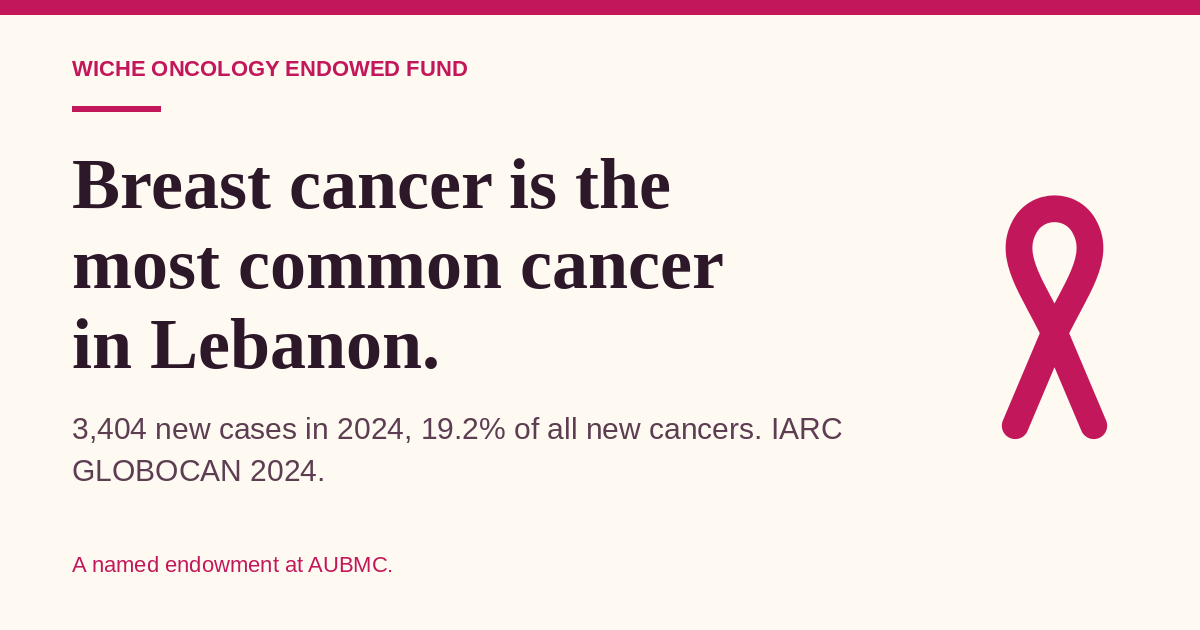
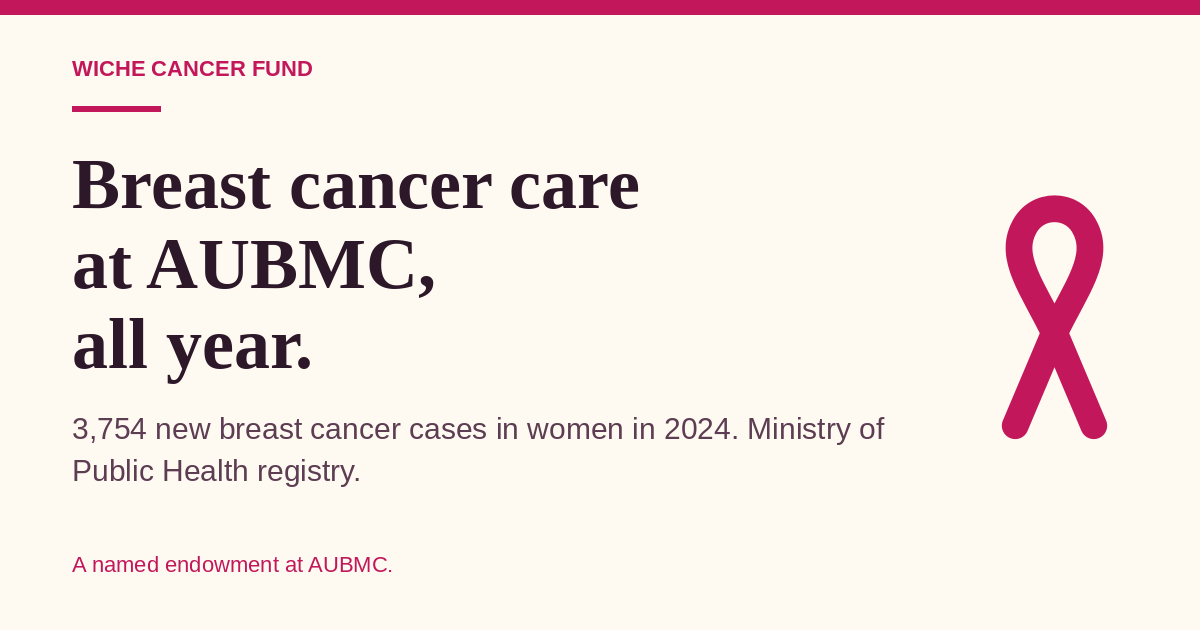
Sync origin fe1038b8, absolute OG tags

diff --git a/index.html b/index.html
@@ -3,22 +3,22 @@
   <head>
     <meta charset="utf-8" />
     <meta name="viewport" content="width=device-width, initial-scale=1, viewport-fit=cover" />
-    <title>WICHE Oncology Endowed Fund</title>
-    <meta name="description" content="Cancer care at AUBMC is priced in dollars. Since 2019 the Lebanese pound has lost 98 percent of its value. This endowment pays for treatment so a diagnosis is not the bill that stops care." />
+    <title>WICHE Cancer Fund</title>
+    <meta name="description" content="Breast cancer care at AUBMC, all year. In July 2026 the WICHE Cancer Fund helped three Lebanese women with breast cancer get treatment." />
     <meta name="theme-color" content="#441f41" />
     <link rel="icon" href="favicon.svg" type="image/svg+xml" />
     <link rel="apple-touch-icon" href="apple-touch-icon.png" />
     <meta property="og:type" content="website" />
     <meta property="og:url" content="https://rarmoush.github.io/wiche-fund/" />
-    <meta property="og:title" content="WICHE Oncology Endowed Fund" />
-    <meta property="og:description" content="Cancer care at AUBMC is priced in dollars. Since 2019 the Lebanese pound has lost 98 percent of its value. This endowment pays for treatment so a diagnosis is not the bill that stops care." />
+    <meta property="og:title" content="WICHE Cancer Fund" />
+    <meta property="og:description" content="Breast cancer care at AUBMC, all year. In July 2026 the fund helped three Lebanese women with breast cancer get treatment." />
     <meta property="og:image" content="https://rarmoush.github.io/wiche-fund/og-image.png" />
     <meta property="og:image:width" content="1200" />
     <meta property="og:image:height" content="630" />
-    <meta property="og:image:alt" content="A geometric pink ribbon: Breast cancer is the most common cancer in Lebanon. WICHE Oncology Endowed Fund. No photographs of people." />
+    <meta property="og:image:alt" content="A geometric pink ribbon: Breast cancer care at AUBMC, all year. WICHE Cancer Fund. No photographs of people." />
     <meta name="twitter:card" content="summary_large_image" />
-    <meta name="twitter:title" content="WICHE Oncology Endowed Fund" />
-    <meta name="twitter:description" content="Cancer care at AUBMC is priced in dollars. Since 2019 the Lebanese pound has lost 98 percent of its value. This endowment pays for treatment so a diagnosis is not the bill that stops care." />
+    <meta name="twitter:title" content="WICHE Cancer Fund" />
+    <meta name="twitter:description" content="Breast cancer care at AUBMC, all year. In July 2026 the fund helped three Lebanese women with breast cancer get treatment." />
     <meta name="twitter:image" content="https://rarmoush.github.io/wiche-fund/og-image.png" />
     <style>
       :root {
@@ -89,11 +89,11 @@
         letter-spacing: 0.08em; text-transform: uppercase; color: var(--plum);
       }
       h1 {
-        margin: 0; max-width: 16ch; font-family: var(--serif);
+        margin: 0; max-width: 14ch; font-family: var(--serif);
         font-size: clamp(2.35rem, 7vw, 4rem); font-weight: 500; line-height: 1.05; letter-spacing: -0.03em;
       }
-      h1 em { font-style: italic; font-weight: 500; }
-      .subhead { max-width: 36ch; margin: 1rem 0 0; font-size: 1.125rem; line-height: 1.4; }
+      .subhead { max-width: 28ch; margin: 0.85rem 0 0; font-size: 1.125rem; line-height: 1.4; }
+      .proof { max-width: 36ch; margin: 0.85rem 0 0; }
       .hero-actions { display: flex; flex-wrap: wrap; gap: 0.65rem; margin-top: 1.5rem; }
       main section { padding-block: 2.5rem; }
       main section + section { border-top: 1px solid var(--line); }
@@ -101,18 +101,23 @@
         margin: 0 0 0.55rem; font-family: var(--serif);
         font-size: clamp(1.7rem, 4vw, 2.25rem); font-weight: 500; line-height: 1.15;
       }
+      h3 {
+        margin: 1.5rem 0 0.75rem; font-family: var(--serif);
+        font-size: 1.35rem; font-weight: 500; line-height: 1.2;
+      }
       .lede { max-width: 62ch; margin: 0 0 1.25rem; }
       .stat-strip {
         display: grid; grid-template-columns: 1fr 1fr; gap: 1.15rem 0.9rem;
         list-style: none; margin: 0 0 1.5rem; padding: 0;
       }
       .stat-strip .num {
-        margin: 0; font-family: var(--serif); font-size: clamp(1.7rem, 4vw, 2.2rem);
+        margin: 0; font-family: var(--serif); font-size: clamp(2.5rem, 7vw, 3.25rem);
         font-weight: 500; line-height: 1; letter-spacing: -0.03em; color: var(--plum);
       }
       .stat-strip p:not(.num) { margin: 0.3rem 0 0.15rem; font-size: 0.875rem; line-height: 1.3; color: var(--muted); }
       .src { font-size: 0.75rem; }
-      .chart { margin: 0; }
+      .chart { margin: 1.35rem 0 0; }
+      p.src { max-width: 62ch; margin: 0.45rem 0 0; }
       .chart figcaption { margin: 0 0 0.7rem; font-weight: 650; }
       .chart ol { list-style: none; margin: 0; padding: 0; display: grid; gap: 0.65rem; }
       .bar-meta { display: flex; justify-content: space-between; gap: 1rem; margin-bottom: 0.2rem; font-size: 0.875rem; }
@@ -141,35 +146,9 @@
       .flow-steps .cite { display: inline-block; margin-top: 0.2rem; }
       .faq details { border-top: 1px solid var(--line); }
       .faq details:last-child { border-bottom: 1px solid var(--line); }
-      .segment { border: 0; margin: 0 0 0.9rem; padding: 0; }
-      .segment-bar { display: grid; grid-template-columns: 1fr 1fr; gap: 0.4rem; }
-      .segment-opt, .chip { position: relative; }
-      .segment-opt span, .chip span {
-        display: flex; align-items: center; justify-content: center; min-height: 48px;
-        border: 2px solid var(--line); font-weight: 650; cursor: pointer;
-      }
-      .segment-opt span { border-radius: 999px; }
-      .chip span { border-radius: 12px; background: var(--cream); }
-      .segment-opt input, .chip input { position: absolute; opacity: 0; pointer-events: none; }
-      .segment-opt input:checked + span, .chip input:checked + span {
-        background: var(--plum); border-color: var(--plum); color: var(--cream);
-      }
-      .segment-opt input:focus-visible + span, .chip input:focus-visible + span {
-        outline: 2px solid var(--plum); outline-offset: 3px;
-      }
-      .chip-label {
-        margin: 0 0 0.4rem; font-size: 0.75rem; font-weight: 700;
-        letter-spacing: 0.06em; text-transform: uppercase; color: var(--muted);
-      }
-      .chip-row { display: grid; grid-template-columns: repeat(3, 1fr); gap: 0.45rem; }
-      .chips { margin-bottom: 0.85rem; }
-      .other-wrap { margin-top: 0.7rem; }
-      .other-wrap label { display: block; margin-bottom: 0.25rem; font-size: 0.875rem; }
-      input[type="number"] {
-        width: 100%; min-height: 48px; padding: 0.45rem 0.7rem;
-        border: 2px solid var(--line); border-radius: 12px; background: var(--cream); color: var(--ink); font: inherit;
-      }
-      .give-hint { margin: 0.65rem 0 0; color: var(--muted); }
+      .give-actions { margin-top: 0; }
+      .give-hint { margin: 0.85rem 0 0; color: var(--muted); }
+      .dedicate { max-width: 42ch; margin: 0.85rem 0 0; }
       .share-primary { display: flex; flex-wrap: wrap; gap: 0.55rem; }
       .share-more {
         display: flex; flex-wrap: wrap; gap: 0.15rem 0.85rem;
@@ -195,7 +174,7 @@
       .hint { display: block; margin-top: 0.1rem; font-size: 0.8125rem; color: var(--muted); font-weight: 400; }
       .tax, .foot-note { max-width: 62ch; margin: 0.7rem 0 0; font-size: 0.9375rem; color: var(--muted); }
       @media (min-width: 700px) {
-        .stat-strip { grid-template-columns: repeat(4, 1fr); }
+        .stat-strip { grid-template-columns: repeat(3, 1fr); }
       }
       @media print {
         .skip, #share { display: none !important; }
@@ -220,12 +199,13 @@
           <svg class="ribbon" viewBox="0 0 100 140" aria-hidden="true" focusable="false">
             <use href="#ribbon-mark"></use>
           </svg>
-          <span>WICHE Oncology Endowed Fund</span>
+          <span>WICHE Cancer Fund</span>
         </p>
-        <h1>Cancer care at AUBMC is priced in <em>dollars</em>.</h1>
-        <p class="subhead">The pound has lost 98% of its value since 2019. This fund pays for treatment.</p>
+        <h1>So treatment can continue.</h1>
+        <p class="subhead">Breast cancer care at AUBMC, all year.</p>
+        <p class="proof">In July 2026 the fund helped three Lebanese women with breast cancer get treatment.</p>
         <div class="hero-actions">
-          <a class="btn btn-primary" href="https://giving.aub.edu.lb/" target="_blank" rel="noopener noreferrer">Give<span class="sr-only"> to AUB. Designation: WICHE Oncology Endowed Fund. Opens in a new tab.</span></a>
+          <a class="btn btn-primary" href="https://giving.aub.edu.lb/" target="_blank" rel="noopener noreferrer">Give<span class="sr-only">. Opens in a new tab.</span></a>
           <a class="btn btn-outline" href="#how">See where it goes</a>
         </div>
       </div>
@@ -234,65 +214,113 @@
     <main id="main">
       <section id="lebanon" class="wrap" aria-labelledby="lebanon-title">
         <!-- PENDING: diagnosis categories for the 9 non-breast-cancer patients not yet supplied by AUBMC. Do not infer. -->
-        <h2 id="lebanon-title">Cancer in Lebanon</h2>
-        <p class="lede">Breast cancer is the most common cancer here. These counts are from IARC, 2024.</p>
+        <!-- [NEED: source] National Cancer Registry breast-cancer counts for 2013, 2014, 2017, and 2020 were not read from the primary tables. Do not fill those years in. -->
+        <h2 id="lebanon-title">Breast cancer in Lebanon</h2>
         <ul class="stat-strip">
           <li>
-            <p class="num">3,404</p>
-            <p>New breast cancer cases</p>
-            <a class="src" href="https://gco.iarc.who.int/media/globocan/factsheets/populations/422-lebanon-fact-sheet.pdf" target="_blank" rel="noopener noreferrer">IARC<span class="sr-only"> GLOBOCAN 2024 fact sheet (PDF), opens in a new tab</span></a>
+            <p class="num">3,754</p>
+            <p>New breast cancer cases in 2024</p>
+            <a class="src" href="https://www.moph.gov.lb/userfiles/files/Esu_data/Esu_ncr/BF2024.HTM" target="_blank" rel="noopener noreferrer">Ministry of Public Health registry<span class="sr-only">, 2024 table of cases in women, opens in a new tab</span></a>
           </li>
           <li>
-            <p class="num">19.2%</p>
-            <p>Of all new cancers</p>
-            <a class="src" href="https://gco.iarc.who.int/media/globocan/factsheets/populations/422-lebanon-fact-sheet.pdf" target="_blank" rel="noopener noreferrer">IARC<span class="sr-only"> GLOBOCAN 2024 fact sheet (PDF), opens in a new tab</span></a>
+            <p class="num">2,252</p>
+            <p>Cases in women in 2012, the earlier count</p>
+            <a class="src" href="https://www.moph.gov.lb/userfiles/files/Esu_data/Esu_ncr/BF2012.HTM" target="_blank" rel="noopener noreferrer">Ministry of Public Health registry<span class="sr-only">, 2012 table of cases in women, opens in a new tab</span></a>
           </li>
           <li>
             <p class="num">38.7%</p>
             <p>Of new cancers in women</p>
-            <a class="src" href="https://gco.iarc.who.int/media/globocan/factsheets/populations/422-lebanon-fact-sheet.pdf" target="_blank" rel="noopener noreferrer">IARC<span class="sr-only"> GLOBOCAN 2024 fact sheet (PDF), opens in a new tab</span></a>
-          </li>
-          <li>
-            <p class="num">17,728</p>
-            <p>All new cancers</p>
-            <a class="src" href="https://gco.iarc.who.int/media/globocan/factsheets/populations/422-lebanon-fact-sheet.pdf" target="_blank" rel="noopener noreferrer">IARC<span class="sr-only"> GLOBOCAN 2024 fact sheet (PDF), opens in a new tab</span></a>
+            <a class="src" href="https://gco.iarc.who.int/media/globocan/factsheets/populations/422-lebanon-fact-sheet.pdf" target="_blank" rel="noopener noreferrer">IARC GLOBOCAN 2024<span class="sr-only"> fact sheet (PDF), opens in a new tab</span></a>
           </li>
         </ul>
         <figure class="chart">
-          <figcaption>Most common cancers, 2024</figcaption>
+          <figcaption>Cases in women, national registry</figcaption>
           <ol>
             <li>
-              <div class="bar-meta"><span>Breast</span><span>3,404 · 19.2%</span></div>
-              <div class="bar" role="img" aria-label="Breast, 3,404 cases"><span class="bar-fill is-breast" style="width:100%"></span></div>
+              <div class="bar-meta"><span>2012</span><span>2,252</span></div>
+              <div class="bar" role="img" aria-label="2012, 2,252 cases in women"><span class="bar-fill is-breast" style="width:59.8%"></span></div>
             </li>
             <li>
-              <div class="bar-meta"><span>Lung</span><span>1,820 · 10.3%</span></div>
-              <div class="bar" role="img" aria-label="Lung, 1,820 cases"><span class="bar-fill" style="width:53.47%"></span></div>
+              <div class="bar-meta"><span>2015</span><span>2,547</span></div>
+              <div class="bar" role="img" aria-label="2015, 2,547 cases in women"><span class="bar-fill is-breast" style="width:67.6%"></span></div>
             </li>
             <li>
-              <div class="bar-meta"><span>Bladder</span><span>1,680 · 9.5%</span></div>
-              <div class="bar" role="img" aria-label="Bladder, 1,680 cases"><span class="bar-fill" style="width:49.35%"></span></div>
+              <div class="bar-meta"><span>2016</span><span>2,264</span></div>
+              <div class="bar" role="img" aria-label="2016, 2,264 cases in women"><span class="bar-fill is-breast" style="width:60.1%"></span></div>
             </li>
             <li>
-              <div class="bar-meta"><span>Colorectum</span><span>1,644 · 9.3%</span></div>
-              <div class="bar" role="img" aria-label="Colorectum, 1,644 cases"><span class="bar-fill" style="width:48.3%"></span></div>
+              <div class="bar-meta"><span>2018</span><span>3,009</span></div>
+              <div class="bar" role="img" aria-label="2018, 3,009 cases in women"><span class="bar-fill is-breast" style="width:79.9%"></span></div>
             </li>
             <li>
-              <div class="bar-meta"><span>Prostate</span><span>1,411 · 8.0%</span></div>
-              <div class="bar" role="img" aria-label="Prostate, 1,411 cases"><span class="bar-fill" style="width:41.45%"></span></div>
+              <div class="bar-meta"><span>2019</span><span>2,991</span></div>
+              <div class="bar" role="img" aria-label="2019, 2,991 cases in women"><span class="bar-fill is-breast" style="width:79.4%"></span></div>
+            </li>
+            <li>
+              <div class="bar-meta"><span>2021</span><span>3,072</span></div>
+              <div class="bar" role="img" aria-label="2021, 3,072 cases in women"><span class="bar-fill is-breast" style="width:81.6%"></span></div>
+            </li>
+            <li>
+              <div class="bar-meta"><span>2022</span><span>3,230</span></div>
+              <div class="bar" role="img" aria-label="2022, 3,230 cases in women"><span class="bar-fill is-breast" style="width:85.7%"></span></div>
+            </li>
+            <li>
+              <div class="bar-meta"><span>2023</span><span>3,767</span></div>
+              <div class="bar" role="img" aria-label="2023, 3,767 cases in women"><span class="bar-fill is-breast" style="width:100%"></span></div>
+            </li>
+            <li>
+              <div class="bar-meta"><span>2024</span><span>3,754</span></div>
+              <div class="bar" role="img" aria-label="2024, 3,754 cases in women"><span class="bar-fill is-breast" style="width:99.7%"></span></div>
             </li>
           </ol>
         </figure>
+        <p class="src">Ministry of Public Health, National Cancer Registry. Cases in women, breast (C50), 2012 to 2024. 2015 is the breast-cancer table; other years are Table B.
+          <a href="https://www.moph.gov.lb/userfiles/files/Esu_data/Esu_ncr/BF2012.HTM" target="_blank" rel="noopener noreferrer">2012<span class="sr-only">, opens in a new tab</span></a> ·
+          <a href="https://www.moph.gov.lb/userfiles/files/Esu_data/Esu_ncr/T2015C50.HTM" target="_blank" rel="noopener noreferrer">2015<span class="sr-only">, opens in a new tab</span></a> ·
+          <a href="https://www.moph.gov.lb/userfiles/files/Esu_data/Esu_ncr/BF2016.HTM" target="_blank" rel="noopener noreferrer">2016<span class="sr-only">, opens in a new tab</span></a> ·
+          <a href="https://www.moph.gov.lb/userfiles/files/Esu_data/Esu_ncr/BF2018.HTM" target="_blank" rel="noopener noreferrer">2018<span class="sr-only">, opens in a new tab</span></a> ·
+          <a href="https://www.moph.gov.lb/userfiles/files/Esu_data/Esu_ncr/BF2019.HTM" target="_blank" rel="noopener noreferrer">2019<span class="sr-only">, opens in a new tab</span></a> ·
+          <a href="https://www.moph.gov.lb/userfiles/files/Esu_data/Esu_ncr/BF2021.HTM" target="_blank" rel="noopener noreferrer">2021<span class="sr-only">, opens in a new tab</span></a> ·
+          <a href="https://www.moph.gov.lb/userfiles/files/Esu_data/Esu_ncr/BF2022.HTM" target="_blank" rel="noopener noreferrer">2022<span class="sr-only">, opens in a new tab</span></a> ·
+          <a href="https://www.moph.gov.lb/userfiles/files/Esu_data/Esu_ncr/BF2023.HTM" target="_blank" rel="noopener noreferrer">2023<span class="sr-only">, opens in a new tab</span></a> ·
+          <a href="https://www.moph.gov.lb/userfiles/files/Esu_data/Esu_ncr/BF2024.HTM" target="_blank" rel="noopener noreferrer">2024<span class="sr-only">, opens in a new tab</span></a>
+        </p>
         <details class="more">
           <summary>Sources and more numbers</summary>
           <div class="more-body">
+            <figure class="chart">
+              <figcaption>Most common cancers, 2024</figcaption>
+              <ol>
+                <li>
+                  <div class="bar-meta"><span>Breast</span><span>3,404 · 19.2%</span></div>
+                  <div class="bar" role="img" aria-label="Breast, 3,404 cases"><span class="bar-fill is-breast" style="width:100%"></span></div>
+                </li>
+                <li>
+                  <div class="bar-meta"><span>Lung</span><span>1,820 · 10.3%</span></div>
+                  <div class="bar" role="img" aria-label="Lung, 1,820 cases"><span class="bar-fill" style="width:53.47%"></span></div>
+                </li>
+                <li>
+                  <div class="bar-meta"><span>Bladder</span><span>1,680 · 9.5%</span></div>
+                  <div class="bar" role="img" aria-label="Bladder, 1,680 cases"><span class="bar-fill" style="width:49.35%"></span></div>
+                </li>
+                <li>
+                  <div class="bar-meta"><span>Colorectum</span><span>1,644 · 9.3%</span></div>
+                  <div class="bar" role="img" aria-label="Colorectum, 1,644 cases"><span class="bar-fill" style="width:48.3%"></span></div>
+                </li>
+                <li>
+                  <div class="bar-meta"><span>Prostate</span><span>1,411 · 8.0%</span></div>
+                  <div class="bar" role="img" aria-label="Prostate, 1,411 cases"><span class="bar-fill" style="width:41.45%"></span></div>
+                </li>
+              </ol>
+            </figure>
+            <p class="src">IARC GLOBOCAN 2024, both sexes. <a href="https://gco.iarc.who.int/media/globocan/factsheets/populations/422-lebanon-fact-sheet.pdf" target="_blank" rel="noopener noreferrer">Fact sheet (PDF)<span class="sr-only">, opens in a new tab</span></a></p>
             <p>The pound has lost 98% of its value since 2019. Banks became insolvent, and more than a third of people were pushed into poverty. <a class="cite" href="https://www.worldbank.org/ext/en/country/lebanon" target="_blank" rel="noopener noreferrer">World Bank<span class="sr-only">, opens in a new tab</span></a></p>
-            <p>IARC GLOBOCAN 2024: 42,382 people living with a cancer found in the last five years. 8,706 cancer deaths. About 1 in 4 people develops cancer before age 75 (24.2%). Breast cancer caused 978 deaths, second among cancers. 9,615 people are living with breast cancer found in the last five years. 38.7% is 3,404 of 8,798 new cancers among women. <a class="cite" href="https://gco.iarc.who.int/media/globocan/factsheets/populations/422-lebanon-fact-sheet.pdf" target="_blank" rel="noopener noreferrer">IARC fact sheet (PDF)<span class="sr-only">, opens in a new tab</span></a></p>
-            <p>New cases rose 162% from 1990 to 2023, the fastest rise of any country (Global Burden of Disease 2023, IHME, <cite>The Lancet</cite>, 2025). Deaths rose 80%. Cases have been rising about 4% a year. In 2023 there were 233.5 new cases per 100,000 people. <a class="cite" href="https://www.healthdata.org/news-events/insights-blog/acting-data/why-does-lebanon-have-some-fastest-growing-rates-cancer-world" target="_blank" rel="noopener noreferrer">GBD 2023 / IHME<span class="sr-only">, opens in a new tab</span></a></p>
-            <p>At Hôtel-Dieu de France — a different Beirut hospital, not AUBMC — 32% interrupted treatment, mostly chemotherapy (Eid et al., 2024, n=182). In February 2022, 43% of those households earned under $300 a month. Even with coverage, 70% paid for medication themselves. AUBMC’s own costs are not on this page. <a class="cite" href="https://pmc.ncbi.nlm.nih.gov/articles/PMC11145953/" target="_blank" rel="noopener noreferrer">PMC11145953<span class="sr-only">, opens in a new tab</span></a></p>
+            <p>IARC GLOBOCAN 2024, a separate estimate from the registry counts above: 3,404 new breast cancer cases, both sexes, 19.2% of all new cancers. 38.7% is 3,404 of 8,798 new cancers among women. Breast cancer caused 978 deaths, second among cancers. 9,615 people are living with breast cancer found in the last five years. 42,382 people are living with a cancer found in the last five years. 8,706 cancer deaths. About 1 in 4 people develops cancer before age 75 (24.2%). In the 2024 registry table, the largest age group among women was 55–59 (548 of 3,754). <a class="cite" href="https://gco.iarc.who.int/media/globocan/factsheets/populations/422-lebanon-fact-sheet.pdf" target="_blank" rel="noopener noreferrer">IARC fact sheet (PDF)<span class="sr-only">, opens in a new tab</span></a> <a class="cite" href="https://www.moph.gov.lb/userfiles/files/Esu_data/Esu_ncr/BF2024.HTM" target="_blank" rel="noopener noreferrer">2024 registry table<span class="sr-only">, opens in a new tab</span></a></p>
+            <p>At Hôtel-Dieu de France — a different Beirut hospital, not AUBMC — 32% interrupted treatment, mostly chemotherapy (Eid et al., 2024, n=182). Even with coverage, 70% paid for medication themselves. AUBMC’s own costs are not on this page. <a class="cite" href="https://pmc.ncbi.nlm.nih.gov/articles/PMC11145953/" target="_blank" rel="noopener noreferrer">PMC11145953<span class="sr-only">, opens in a new tab</span></a></p>
             <p>The Naef K. Basile Cancer Institute at AUBMC enrolls about 2,500 new cancer patients a year. <a class="cite" href="https://sites.aub.edu.lb/aubmcacc/nkbci/nkbci-patient-care-services-2/" target="_blank" rel="noopener noreferrer">AUBMC<span class="sr-only">, opens in a new tab</span></a></p>
-            <p>This fund, as AUBMC reported it: 12 patients (9 women, 3 men), all Lebanese. 19 encounters — 16 for inpatient treatment, 3 for outpatient imaging. In July 2026 it helped three Lebanese women in treatment for breast cancer. Diagnoses for the other nine were not supplied. Social services found each patient highly eligible. Most had been displaced by the war.</p>
-            <p>AUB publishes a 4% spending policy, on the 20-quarter moving average. AUB’s example, not this fund’s size: a $3 million endowment pays about $120,000 in year one. <a class="cite" href="https://boldly.aub.edu.lb/faq/" target="_blank" rel="noopener noreferrer">AUB Boldly FAQ<span class="sr-only">, opens in a new tab</span></a> This page does not say what share of a gift reaches a patient.</p>
+            <!-- Fund detail held off the page: 9 women and 3 men, all Lebanese; other nine diagnoses not supplied; social services found each patient highly eligible; most had been displaced by the war. -->
+            <p>This fund, as AUBMC reported it: 19 hospital visits covered: 16 inpatient treatments and 3 imaging scans, for 12 patients.</p>
+            <p>AUB publishes a 4% spending policy, on the 20-quarter moving average. <a class="cite" href="https://boldly.aub.edu.lb/faq/" target="_blank" rel="noopener noreferrer">AUB Boldly FAQ<span class="sr-only">, opens in a new tab</span></a> This page does not say what share of a gift reaches a patient.</p>
           </div>
         </details>
       </section>
@@ -351,43 +379,18 @@
 
       <section id="give" class="wrap" aria-labelledby="give-title">
         <h2 id="give-title">Give</h2>
-        <p class="lede">You pay on AUB’s site. These amounts are only a reminder for that form.</p>
-        <fieldset class="segment">
-          <legend class="sr-only">Gift frequency</legend>
-          <div class="segment-bar" role="radiogroup" aria-label="Gift frequency">
-            <label class="segment-opt"><input type="radio" name="freq" value="monthly" checked /><span>Monthly</span></label>
-            <label class="segment-opt"><input type="radio" name="freq" value="onetime" /><span>One-time</span></label>
-          </div>
-        </fieldset>
-        <div id="amounts-monthly" class="chips">
-          <p class="chip-label" id="monthly-amounts-label">Monthly amount</p>
-          <div class="chip-row" role="radiogroup" aria-labelledby="monthly-amounts-label">
-            <label class="chip"><input type="radio" name="amt-monthly" value="50" checked /><span>$50</span></label>
-            <label class="chip"><input type="radio" name="amt-monthly" value="150" /><span>$150</span></label>
-            <label class="chip"><input type="radio" name="amt-monthly" value="500" /><span>$500</span></label>
-          </div>
+        <p class="lede">Monthly or once. You finish the gift on AUB’s site.</p>
+        <div class="hero-actions give-actions">
+          <a class="btn btn-primary" href="https://giving.aub.edu.lb/" target="_blank" rel="noopener noreferrer">Give monthly<span class="sr-only"> on AUB’s site. Opens in a new tab.</span></a>
+          <a class="btn btn-outline" href="https://giving.aub.edu.lb/" target="_blank" rel="noopener noreferrer">Give once<span class="sr-only"> on AUB’s site. Opens in a new tab.</span></a>
         </div>
-        <div id="amounts-onetime" class="chips" hidden>
-          <p class="chip-label" id="onetime-amounts-label">One-time amount</p>
-          <div class="chip-row" role="radiogroup" aria-labelledby="onetime-amounts-label">
-            <label class="chip"><input type="radio" name="amt-onetime" value="250" checked /><span>$250</span></label>
-            <label class="chip"><input type="radio" name="amt-onetime" value="1000" /><span>$1,000</span></label>
-            <label class="chip"><input type="radio" name="amt-onetime" value="5000" /><span>$5,000</span></label>
-            <label class="chip"><input type="radio" name="amt-onetime" value="10000" /><span>$10,000</span></label>
-            <label class="chip"><input type="radio" name="amt-onetime" value="other" /><span>Other</span></label>
-          </div>
-          <div id="other-wrap" class="other-wrap" hidden>
-            <label for="other-amount">Other amount (USD)</label>
-            <input id="other-amount" name="other-amount" type="number" min="1" step="1" inputmode="numeric" />
-          </div>
-        </div>
-        <a class="btn btn-primary btn-block" href="https://giving.aub.edu.lb/" target="_blank" rel="noopener noreferrer">Give on AUB’s site<span class="sr-only">, opens in a new tab</span></a>
         <p class="give-hint">Designation: WICHE Oncology Endowed Fund</p>
+        <p class="give-hint">WICHE Cancer Fund is the same fund.</p>
+        <p class="dedicate">In honor of, or in memory of, someone. You can dedicate your gift when you give on AUB’s page.</p>
         <details class="fold">
           <summary>Other ways to give</summary>
-          <p>Checks payable to AUB, memo WICHE Oncology Endowed Fund. Mail them to Office of Development, American University of Beirut, 3 Dag Hammarskjold Plaza, 8th Floor, New York, NY 10017.</p>
+          <p>Checks payable to AUB. Write the designation above on the memo line. Mail them to Office of Development, American University of Beirut, 3 Dag Hammarskjold Plaza, 8th Floor, New York, NY 10017.</p>
           <p>For stock, a donor-advised fund, or crypto, write to <a href="mailto:advancement@aub.edu.lb">advancement@aub.edu.lb</a>.</p>
-          <p>You can name this fund in a will, or give in someone’s honor. Ask Advancement for the wording. This is not legal advice.</p>
           <p>Employer match lookup is not on this page yet. If your employer matches gifts to a US 501(c)(3), give on AUB’s site and send them the receipt.</p>
         </details>
       </section>
@@ -407,7 +410,7 @@
         <p class="toast" id="share-toast" role="status" aria-live="polite"></p>
         <details id="ways" class="fold">
           <summary>Ask a friend</summary>
-          <p class="ask-preview" id="ask-preview">I'm asking friends to give to the WICHE Oncology Endowed Fund at AUBMC, for cancer patients in Lebanon. Breast cancer is the most common cancer in Lebanon. Gifts go to AUB's US 501(c)(3).</p>
+          <p class="ask-preview" id="ask-preview">I'm asking friends to give to the WICHE Cancer Fund at AUBMC, for breast cancer care all year. In July 2026 the fund helped three Lebanese women with breast cancer get treatment. Gifts go to AUB's US 501(c)(3).</p>
           <button type="button" class="btn btn-outline" id="ask-copy">Copy note</button>
           <p class="toast" id="ask-toast" role="status" aria-live="polite"></p>
         </details>
@@ -424,7 +427,7 @@
       <!-- Founder note: replace only after Randa Armoush supplies her own words. Do not draft it. -->
       <p class="note-hold">A note from the founder, Randa Armoush, is coming soon.</p>
       <ul class="fine">
-        <li>WICHE Oncology Endowed Fund</li>
+        <li>WICHE Cancer Fund</li>
         <li>American University of Beirut, US 501(c)(3)</li>
         <li class="ein-item"><span class="ein">EIN 13-5596846</span><span class="hint">Pending Advancement confirmation for receipts.</span></li>
         <li><a href="https://projects.propublica.org/nonprofits/organizations/135596846" target="_blank" rel="noopener noreferrer">Form 990<span class="sr-only"> on ProPublica, opens in a new tab</span></a></li>

diff --git a/app.js b/app.js
@@ -7,13 +7,13 @@
   var CAMPAIGN = "wiche_share";
 
   var TEXT = {
-    wa: "Breast cancer is the most common cancer in Lebanon, with 3,404 new cases in 2024. The WICHE Oncology Endowed Fund at AUBMC helps patients who can't pay. Gifts go to AUB's US 501(c)(3). ",
-    ig: "Breast cancer is the most common cancer in Lebanon, with 3,404 new cases in 2024. The WICHE Oncology Endowed Fund at AUBMC helps patients who can't pay. Gifts go to AUB's US 501(c)(3). ",
-    x: "Breast cancer is the most common cancer in Lebanon, with 3,404 new cases in 2024. WICHE Oncology Endowed Fund at AUBMC. Gifts go to AUB's US 501(c)(3). ",
-    li: "Breast cancer is the most common cancer in Lebanon, with 3,404 new cases in 2024, 19.2% of all new cancers (IARC GLOBOCAN 2024). The WICHE Oncology Endowed Fund at AUBMC helps patients who can't pay. In July 2026 the fund assisted three Lebanese women in treatment for breast cancer. Gifts go to AUB's US 501(c)(3). "
+    wa: "Breast cancer care at AUBMC, all year. The WICHE Cancer Fund. In 2024 Lebanon’s registry recorded 3,754 new breast cancer cases in women. Gifts go to AUB's US 501(c)(3). ",
+    ig: "Breast cancer care at AUBMC, all year. The WICHE Cancer Fund. In 2024 Lebanon’s registry recorded 3,754 new breast cancer cases in women. Gifts go to AUB's US 501(c)(3). ",
+    x: "WICHE Cancer Fund: breast cancer care at AUBMC, all year. 3,754 new cases in women in 2024, Lebanon’s national registry. ",
+    li: "Breast cancer care at AUBMC, all year. The WICHE Cancer Fund. Lebanon’s registry recorded 3,754 new breast cancer cases in women in 2024, up from 2,252 in 2012. GLOBOCAN 2024: 38.7% of new cancers in women. In July 2026 the fund helped three Lebanese women with breast cancer get treatment. Gifts go to AUB's US 501(c)(3). "
   };
 
-  var ASK_FRIENDS = "I'm asking friends to give to the WICHE Oncology Endowed Fund at AUBMC, for cancer patients in Lebanon. Breast cancer is the most common cancer in Lebanon. Gifts go to AUB's US 501(c)(3). ";
+  var ASK_FRIENDS = "I'm asking friends to give to the WICHE Cancer Fund at AUBMC, for breast cancer care all year. In July 2026 the fund helped three Lebanese women with breast cancer get treatment. Gifts go to AUB's US 501(c)(3). ";
 
   document.body.classList.toggle("breast-focus", BREAST_FOCUS);
 
@@ -96,30 +96,4 @@
       toast("share-toast", "LinkedIn text copied. Paste it after the share dialog opens.");
     });
   });
-
-  var monthly = document.getElementById("amounts-monthly");
-  var onetime = document.getElementById("amounts-onetime");
-  var otherWrap = document.getElementById("other-wrap");
-
-  function syncOther() {
-    var other = document.querySelector('input[name="amt-onetime"][value="other"]');
-    var show = !!(other && other.checked && onetime && !onetime.hidden);
-    if (otherWrap) otherWrap.hidden = !show;
-  }
-
-  function showFreq(freq) {
-    var isMonthly = freq === "monthly";
-    if (monthly) monthly.hidden = !isMonthly;
-    if (onetime) onetime.hidden = isMonthly;
-    syncOther();
-  }
-
-  document.querySelectorAll('input[name="freq"]').forEach(function (r) {
-    r.addEventListener("change", function () { showFreq(r.value); });
-  });
-  document.querySelectorAll('input[name="amt-onetime"]').forEach(function (r) {
-    r.addEventListener("change", syncOther);
-  });
-  var selected = document.querySelector('input[name="freq"]:checked');
-  showFreq(selected ? selected.value : "monthly");
 })();
